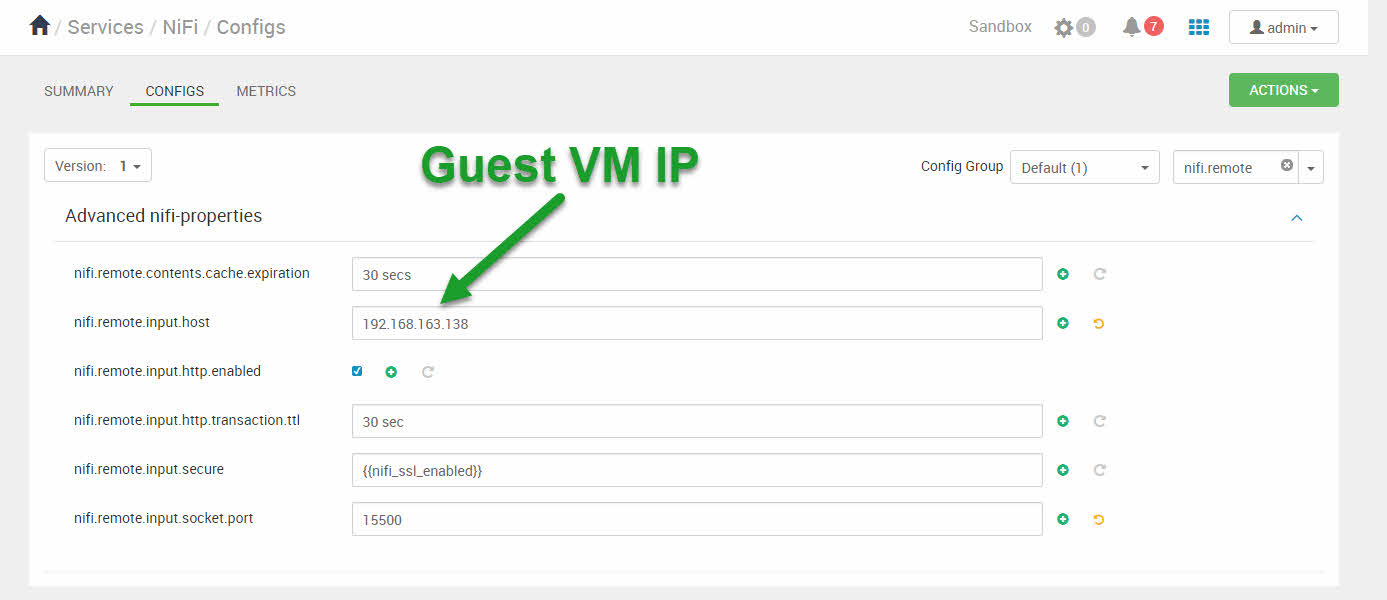
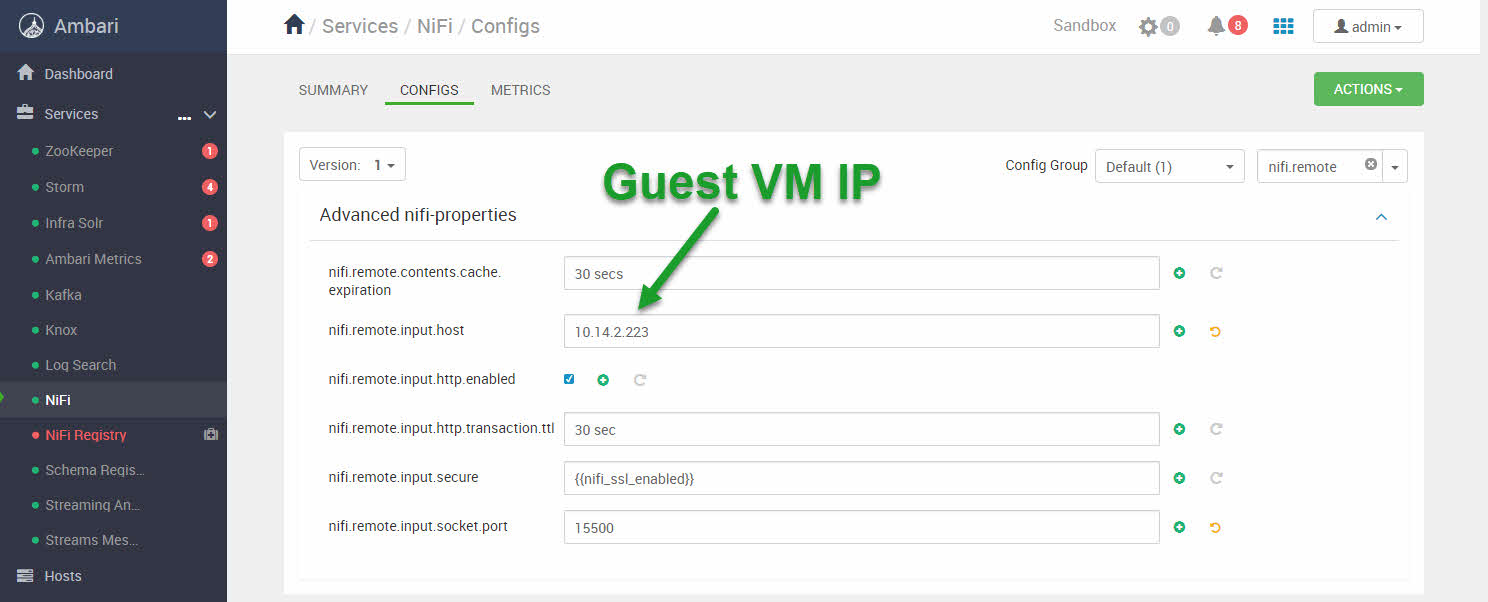
update tutorial-2 with latest steps for virtualbox

diff --git a/tutorials/cda/analyze-iot-weather-station-data-via-connected-data-architecture/tutorial-2.md b/tutorials/cda/analyze-iot-weather-station-data-via-connected-data-architecture/tutorial-2.md
@@ -190,11 +190,6 @@ SSH into the Raspberry Pi using Adafruit's Pi Finder **Terminal** button.
 
 ### Step 2: Configure Bridged Adapter Network
 
-To configure the virtual machine network, it depends on if you are using
-VirtualBox or VMware. If you are using VirtualBox, then you will need to
-perform some steps to generate a unique IP address that can appear on the
-network. However, for VMware users, this feature is enabled by default.
-
 ### VirtualBox User
 
 Open VirtualBox Manager. If your Guest VM is running, it will need to be stopped.
@@ -213,8 +208,7 @@ Open VirtualBox Manager. If your Guest VM is running, it will need to be stopped
 
 4\. Make sure in **System** tab that the Base Memory is set to **32GB of RAM**.
 
-When you turn on the virtual machine, the IP address can be found under
-**For VMware**. Since we are using VirtualBox, both the welcome screen and ssh
+Since we are using VirtualBox, both the welcome screen and ssh
 that are under both header sections are for VirtualBox. You will see you can
 access the web applications from the hostname, ex: **localhost**, or the
 explicit **IP address**.
@@ -222,19 +216,6 @@ explicit **IP address**.
 ![sb-guest-welcome](assets/tutorial2/sb-guest-welcome.jpg)
 
 **Figure 17:** VirtualBox Sandbox Welcome
-
-### VMware User
-
-Alternatively, all you need to do to get the **IP address** for VMware is turn
-on the virtual machine and get it from the window that appears:
-
-![vmware-window](assets/tutorial2/vmware-window.jpg)
-
-**Figure 18:** VMware Sandbox Welcome
-
-Note: you can ignore the **For VirtualBox:** and **For VMware:** on the sandbox
-vmware window. They are irrelevant. Both hostname and IP address relate to
-**VMware**.
 
 ### Step 3: Map Bridged IP to Desired Hostname in hosts file
 
@@ -248,18 +229,18 @@ Select **hosts** file and **open** it.
 
 ![hosts-file-w10](assets/tutorial2/hosts-file-w10.jpg)
 
-**Figure 19:** hosts file
+**Figure 18:** hosts file
 
 Copy the line with the current IP address mapped to the sandbox hostnames. Comment out that line. Now paste the line below the commented out line.
 
 Earlier when we turn on the sandbox, we were able to get the IP address from the
 virtual machine window.
 
-For example on VMware, the IP address **192.168.163.138** is the one generated for this current session in an office space, but your IP will probably be different.
+For example on VirtualBox, the IP address **10.14.2.223** is the one generated for this current session in an office space, but your IP will probably be different.
 
 ![hosts-file-updates](assets/tutorial2/hosts-file-updates.jpg)
 
-**Figure 20:** modify hosts file
+**Figure 19:** modify hosts file
 
 Save the modified file, **ctrl + s**.
 
@@ -267,7 +248,7 @@ Save the modified file, **ctrl + s**.
 
 Similar to windows, open the **hosts** file at path **/private/etc/hosts**. Modify the file with your Bridged IP mapped to the sandbox hostnames.
 
-For example, **192.168.163.138** is the VMware IP generated for this current session in an office space, but your IP will be different.
+For example, **10.14.2.223** is the VirtualBox IP generated for this current session in an office space, but your IP will be different.
 
 ~~~bash
 ##
@@ -277,7 +258,7 @@ For example, **192.168.163.138** is the VMware IP generated for this current ses
 # when the system is booting.  Do not change this entry.
 ##       
 # 127.0.0.1       localhost sandbox-hdp.hortonworks.com sandbox-hdf.hortonworks.com sandbox-host
-192.168.163.138       localhost sandbox.hortonworks.com sandbox-hdp.hortonworks.com sandbox-hdf.hortonworks.com
+10.14.2.223       localhost sandbox.hortonworks.com sandbox-hdp.hortonworks.com sandbox-hdf.hortonworks.com
 255.255.255.255 broadcasthost
 ::1             localhost
 ~~~
@@ -288,14 +269,14 @@ Save the modified file.
 
 Similar to windows, open the **hosts** file at path **/etc/hosts**. Modify the file with your Bridged IP mapped to the sandbox hostnames.
 
-For example, **192.168.163.138** is the VMware Guest VM IP generated for this current session in an office space, but your IP will be different.
+For example, **10.14.2.223** is the VirtualBox Guest VM IP generated for this current session in an office space, but your IP will be different.
 
 ~~~bash
 # File is generated from /sandbox/gen-hosts.sh
 # Do not remove the following line, or various programs
 # that require network functionality will fail.
 127.0.0.1         localhost.localdomain localhost sandbox-hdp.hortonworks.com sandbox-hdf.hortonworks.com sandbox-host
-192.168.163.138       localhost sandbox.hortonworks.com sandbox-hdp.hortonworks.com sandbox-hdf.hortonworks.com
+10.14.2.223       localhost sandbox.hortonworks.com sandbox-hdp.hortonworks.com sandbox-hdf.hortonworks.com
 ~~~
 
 Save the modified file.
@@ -332,7 +313,7 @@ Head to `Advanced NiFi-Properties` in Ambari Config Settings for NiFi. Update th
 
 3\. Filter search for **nifi.remote**
 
-4\. Insert `<your-guest-vm-bridged-ip-address>` in **nifi.remote.input.host**. For example, we inserted **192.168.163.138**.
+4\. Insert `<your-guest-vm-bridged-ip-address>` in **nifi.remote.input.host**. For example, we inserted **10.14.2.223**.
 
 5\. Verify **nifi.remote.input.http.enabled** checked
 
@@ -342,7 +323,7 @@ Head to `Advanced NiFi-Properties` in Ambari Config Settings for NiFi. Update th
 
 ![advanced_nifi_properties](assets/tutorial2/advanced_nifi_properties.jpg)
 
-**Figure 21:** Update NiFi Config for Site-to-Site
+**Figure 20:** Update NiFi Config for Site-to-Site
 
 Now NiFi is configured for Socket Site-To-Site protocol. If you encounter issues deploying MiNiFi to NiFi flow, it could be because the value **nifi.remote.iput.host** changed or **nifi.remote.input.socket.port** you chose is already being used. Of course there are other reasons for issues, but these two are ones to be mindful of.
 
@@ -360,7 +341,7 @@ Add the GeoLite2 to HDF Sandbox CentOS, which is a database filled with Public I
 
 ![hdf_web_shell](assets/tutorial2/hdf_web_shell.jpg)
 
-**Figure 22:** HDF Web Shell
+**Figure 21:** HDF Web Shell
 
 > Note: You will be prompted to change the password if this is your first time logging into the Sandbox.
 
@@ -390,7 +371,7 @@ pwd
 
 ![geolite_dbfile_path](assets/tutorial2/geolite_dbfile_path.jpg)
 
-**Figure 23:** Path to Geolite DB Lookup Table "GeoLite2-City.mmdb"
+**Figure 22:** Path to Geolite DB Lookup Table "GeoLite2-City.mmdb"
 
 Note down the folder name that GeoLite2-City.mmdb is located in on your system. According to the image above, the full pathname is: `/sandbox/tutorial-files/820/nifi/input/GeoFile/GeoLite2-City_20180605/GeoLite2-City.mmdb`
 
@@ -423,13 +404,13 @@ Recommended Hardware:
 
 ![microsd_microsd_adapter](assets/tutorial2/microsd_microsd_adapter.png)
 
-**Figure 24:** MicroSD on left and microSD Card Adapter on right
+**Figure 23:** MicroSD on left and microSD Card Adapter on right
 
 2\. Insert the microSD Adapter into the computer.
 
 ![insert_microsdAdater_laptop](assets/tutorial2/insert_microsdAdater_laptop.png)
 
-**Figure 25:** microSD Adapter Inserted into Computer
+**Figure 24:** microSD Adapter Inserted into Computer
 
 ### Download Raspbian OS Image
 
@@ -447,11 +428,11 @@ You will create a Raspbian bootable OS on microSD card using etcher.io graphic i
 
 ![etcher_dashboard](assets/tutorial2/etcher_dashboard.png)
 
-**Figure 26:** Etcher Dashboard to Create a Bootable OS on microSD
+**Figure 25:** Etcher Dashboard to Create a Bootable OS on microSD
 
 ![etcher_created_bootable_os](assets/tutorial2/etcher_created_bootable_os.png)
 
-**Figure 27:** Flash Complete, Bootable OS Now Created
+**Figure 26:** Flash Complete, Bootable OS Now Created
 
 Once the operation completes, Etcher automatically unmounts the SD card and is safe to eject.
 
@@ -469,7 +450,7 @@ df
 
 ![disk_utility_sd_unmount](assets/tutorial2/disk_utility_sd_unmount.png)
 
-**Figure 28:** MAC Disk Utility to Unmount Device for Writing to it
+**Figure 27:** MAC Disk Utility to Unmount Device for Writing to it
 
 4\. Head to terminal, in the Downloads folder where the Raspbian OS is located, run the DD command to write a bootable Raspbian OS onto micro SD card:
 
@@ -483,7 +464,7 @@ The DD operation will take 1 to 5 minutes until completion.
 
 ![dd_opearation_completion_result](assets/tutorial2/dd_opearation_completion_result.png)
 
-**Figure 29:** Progress of Creating Bootable OS on microSD
+**Figure 28:** Progress of Creating Bootable OS on microSD
 
 After the dd operation completes, you should see the Raspbian bootable OS successfully transferred over to the SD card.
 
@@ -500,7 +481,7 @@ bcm2708-rpi-b-plus.dtb  bcm2710-rpi-cm3.dtb   fixup_cd.dat  kernel7.img   start_
 bcm2708-rpi-b.dtb       bootcode.bin          fixup_db.dat  overlays      start_x.elf
 ~~~
 
-**Figure 30:** Create SSH file to Enable SSH Access to Raspberry Pi
+**Figure 29:** Create SSH file to Enable SSH Access to Raspberry Pi
 
 > Note: the path to the SD card is `/Volumes/boot`. `touch ssh` creates a new file. `ls -ltr` verifies new file was created.
 
@@ -508,13 +489,13 @@ bcm2708-rpi-b.dtb       bootcode.bin          fixup_db.dat  overlays      start_
 
 ![microsd_inserted_to_rpi](assets/tutorial2/microsd_inserted_to_rpi.png)
 
-**Figure 31:** MicroSD Inserted into Raspberry Pi
+**Figure 30:** MicroSD Inserted into Raspberry Pi
 
 7\. Connect ethernet cable to the Raspberry Pi to give it internet access, connect the 5V for power and the Pi should start up.
 
 ![power-ethernet_rpi](assets/tutorial2/power-ethernet_rpi.png)
 
-**Figure 32:** Raspberry Pi Ethernet Cable Connected for Internet Access
+**Figure 31:** Raspberry Pi Ethernet Cable Connected for Internet Access
 
 The Pi's default login credentials:
 
